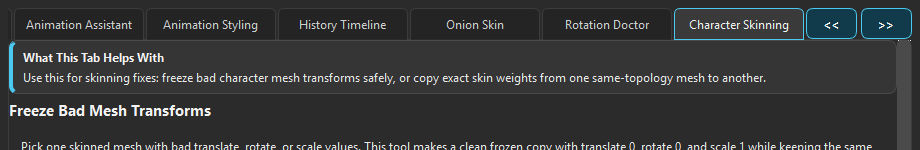
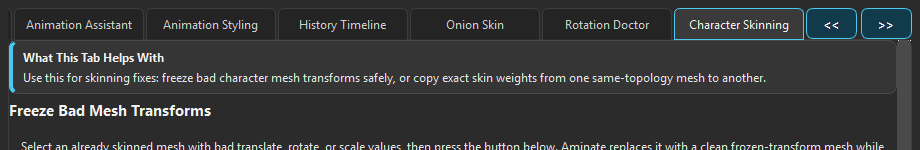
Simplify Character Skinning cleanup

Changed region(s): [[0.0, 0.9333, 0.9739, 1.0]]

diff --git a/maya_skinning_cleanup.py b/maya_skinning_cleanup.py
@@ -732,7 +732,7 @@ def _verify_cleanup(report, clean_transform, clean_shape, new_skin_cluster):
 
 def _format_report(report):
     if not report:
-        return "Pick one skinned mesh, then click Check Selected Mesh."
+        return "Pick one skinned mesh, then click Replace Mesh With Frozen Transform Mesh."
 
     lines = [
         "Mesh: {0}".format(_short_name(report["source_transform"])),
@@ -945,6 +945,27 @@ class MayaSkinningCleanupController(object):
         self.result["clean_transform"] = final_transform
         return True, "Replaced the original mesh. The old one is still in the scene as a hidden backup."
 
+    def replace_with_frozen_transform_mesh(self):
+        if not MAYA_AVAILABLE:
+            return False, "This tool only works inside Maya."
+        try:
+            cmds.undoInfo(openChunk=True, chunkName="AminateReplaceWithFrozenTransformMesh")
+            success, message = self.analyze_selection()
+            if not success:
+                return False, message
+            success, message = self.create_clean_copy()
+            if not success:
+                return False, message
+            success, message = self.replace_original()
+            if not success:
+                return False, message
+            return True, "Replaced selected skinned mesh with a clean frozen-transform mesh. Skin weights, influences, materials, UVs, and normals were preserved."
+        finally:
+            try:
+                cmds.undoInfo(closeChunk=True)
+            except Exception:
+                pass
+
 
 class _WindowBase(QtWidgets.QDialog if QtWidgets else object):
     pass
@@ -982,43 +1003,38 @@ if QtWidgets:
             main_layout.setSpacing(10)
 
             description = QtWidgets.QLabel(
-                "Pick one skinned mesh with bad translate, rotate, or scale values. This tool makes a clean frozen copy with translate 0, rotate 0, and scale 1 while keeping the same shape, skin, materials, UVs, and normals."
+                "Select an already skinned mesh with bad translate, rotate, or scale values, then press the button below. Aminate replaces it with a clean frozen-transform mesh while preserving skin weights."
             )
             description.setWordWrap(True)
             main_layout.addWidget(description)
 
             note = QtWidgets.QLabel(
-                "The normal path is safe: your original mesh stays untouched until every check passes and you press Replace Original."
+                "The old mesh is kept as a hidden backup after the replacement. Reference meshes are blocked so they are not changed by mistake."
             )
             note.setWordWrap(True)
             note.setStyleSheet("color: #B8D7FF;")
             main_layout.addWidget(note)
 
-            button_grid = QtWidgets.QGridLayout()
-            button_grid.setHorizontalSpacing(8)
-            button_grid.setVerticalSpacing(8)
-
             self.analyze_button = QtWidgets.QPushButton("Check Selected Mesh")
             self.analyze_button.setToolTip("Check the selected skinned mesh and show red, yellow, or green notes.")
-            self.create_button = QtWidgets.QPushButton("Make Frozen Copy")
-            self.create_button.setToolTip("Build a non-destructive frozen copy and run the checks.")
+            self.create_button = QtWidgets.QPushButton("Replace Mesh With Frozen Transform Mesh")
+            self.create_button.setMinimumHeight(42)
+            self.create_button.setToolTip("One-click fix: make a verified frozen copy, replace the selected mesh, and keep the old mesh hidden as a backup.")
             self.replace_button = QtWidgets.QPushButton("Replace Original")
             self.replace_button.setToolTip("Only works after all checks pass. The old mesh is kept as a hidden backup.")
             self.delete_button = QtWidgets.QPushButton("Delete Frozen Copy")
             self.delete_button.setToolTip("Remove the frozen copy if you do not want to keep it.")
-
-            button_grid.addWidget(self.analyze_button, 0, 0)
-            button_grid.addWidget(self.create_button, 0, 1)
-            button_grid.addWidget(self.replace_button, 1, 0)
-            button_grid.addWidget(self.delete_button, 1, 1)
-            main_layout.addLayout(button_grid)
+            self.analyze_button.hide()
+            self.replace_button.hide()
+            self.delete_button.hide()
+            main_layout.addWidget(self.create_button)
 
             self.report_text = QtWidgets.QPlainTextEdit()
             self.report_text.setReadOnly(True)
             self.report_text.setToolTip("Red means stop. Yellow means check carefully. Green means ready.")
             main_layout.addWidget(self.report_text, 1)
 
-            self.status_label = QtWidgets.QLabel("Pick one skinned mesh, then click Check Selected Mesh.")
+            self.status_label = QtWidgets.QLabel("Pick one skinned mesh, then click Replace Mesh With Frozen Transform Mesh.")
             self.status_label.setWordWrap(True)
             selectable_flag = _qt_flag("TextInteractionFlag", "TextSelectableByMouse", 0)
             self.status_label.setTextInteractionFlags(selectable_flag)
@@ -1044,7 +1060,7 @@ if QtWidgets:
             main_layout.addLayout(footer_layout)
 
             self.analyze_button.clicked.connect(self._analyze)
-            self.create_button.clicked.connect(self._create_clean_copy)
+            self.create_button.clicked.connect(self._replace_with_frozen_transform_mesh)
             self.replace_button.clicked.connect(self._replace_original)
             self.delete_button.clicked.connect(self._delete_clean_copy)
 
@@ -1061,6 +1077,11 @@ if QtWidgets:
 
         def _create_clean_copy(self):
             success, message = self.controller.create_clean_copy()
+            self._refresh_report()
+            self._set_status(message, success)
+
+        def _replace_with_frozen_transform_mesh(self):
+            success, message = self.controller.replace_with_frozen_transform_mesh()
             self._refresh_report()
             self._set_status(message, success)
 

diff --git a/maya_dynamic_parent_pivot.py b/maya_dynamic_parent_pivot.py
@@ -3023,10 +3023,8 @@ if QtWidgets:
                 "Character Skinning\n"
                 "- Use this when a skinned mesh has bad translate, rotate, or scale values and you want a clean replacement copy.\n"
                 "- Pick one skinned mesh, for example low on a RapidRig character.\n"
-                "- Click Check Selected Mesh.\n"
-                "- Read the red or yellow notes.\n"
-                "- Click Make Frozen Copy.\n"
-                "- If every check turns green, click Replace Original.\n\n"
+                "- Click Replace Mesh With Frozen Transform Mesh.\n"
+                "- Aminate makes a checked frozen mesh, swaps it in, keeps skin weights, and hides the old mesh as a backup.\n\n"
                 "- To copy exact skinning, select the skinned source mesh first, select the matching target mesh second, and click Copy Selected Pair Now.\n\n"
                 "Rig Scale\n"
                 "- Use this when you need an export-safe scaled copy for Unreal or another game engine.\n"

diff --git a/README.md b/README.md
@@ -28,7 +28,7 @@ Other tabs are present in the interface, but they are still closer to preview or
 
 ## What Is New In 0.3.1
 
-- `Character Skinning` keeps skinning tools together. It can reset bad mesh translate and rotate values to `0`, scale to `1`, preserve skin weights and influences, use a visible-mesh fallback when Maya has no hidden original shape, and copy exact skinning from a skinned source mesh to a same-topology target mesh.
+- `Character Skinning` keeps skinning tools together. One button replaces a badly transformed skinned mesh with a clean frozen-transform mesh while preserving skin weights and influences, and the same tab can copy exact skinning from a skinned source mesh to a same-topology target mesh.
 - `Rotation Doctor` adds `Flip Current Key`, and the Floating Graph Editor adds `Euler Flip`, for a Blender-style Euler fix that rewrites the selected Graph Editor rotation key, or current-frame selected-control key, to the nearest safe equivalent rotation.
 - `Animation Assistant` adds an early pose-balance view with floor plane, contact points, center-of-gravity setup, viewport badge, and support-area drawing. This weight / pose balance check is unfinished and should be treated as preview.
 - `Floating Graph Editor` is now dockable, can include a DAG-only Outliner, has cycle infinity controls, and opens or closes from hotkeys more reliably.

diff --git a/CHANGELOG.md b/CHANGELOG.md
@@ -2,6 +2,7 @@
 
 ## Unreleased
 
+- Simplified Character Skinning transform cleanup into one primary button: `Replace Mesh With Frozen Transform Mesh`, which builds the verified frozen mesh, replaces the selected skinned mesh, preserves weights/materials/UVs/normals, and keeps the old mesh hidden as a backup.
 - Renamed `Character Freeze` to `Character Skinning` in the Aminate UI and added a super-simple exact skin transfer workflow in that same tab: select the skinned source mesh, select the matching target mesh, then click `Copy Selected Pair Now`.
 - Added green/red readiness badges to Character Skinning exact skin transfer so source skinning and target topology are checked before copying, and hardened Aminate relaunch/install so stale docked UI closes before the latest modules reload.
 - Fixed the Aminate top tab bar so tab labels keep readable widths instead of collapsing into single-letter tabs, removed the tiny native Qt overflow triangles, and kept only the custom `<<` and `>>` navigation buttons.
